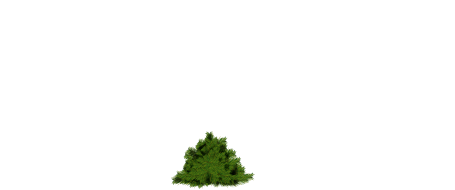
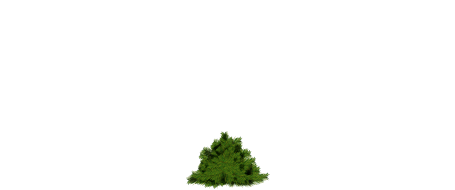
segment position
aligned segments and repositioned the ornaments

Changed region(s): [[0.3692, 0.6842, 0.6154, 1.0]]

diff --git a/css/styles.css b/css/styles.css
@@ -1,1 +1,1 @@
-html,body,div,span,applet,object,iframe,h1,h2,h3,h4,h5,h6,p,blockquote,pre,a,abbr,acronym,address,big,cite,code,del,dfn,em,img,ins,kbd,q,s,samp,small,strike,strong,sub,sup,tt,var,b,u,i,center,dl,dt,dd,ol,ul,li,fieldset,form,label,legend,table,caption,tbody,tfoot,thead,tr,th,td,article,aside,canvas,details,embed,figure,figcaption,footer,header,hgroup,menu,nav,output,ruby,section,summary,time,mark,audio,video{margin:0;padding:0;font-size:12px;font:inherit}article,aside,details,figcaption,figure,footer,header,hgroup,menu,nav,section{display:block}body{line-height:1}ol,ul{list-style:none}blockquote,q{quotes:none}blockquote:before,blockquote:after,q:before,q:after{content:'';content:none}table{border-collapse:collapse;border-spacing:0}:focus{outline:none}::-moz-focus-inner{border:0}*:focus{outline:0}*{margin:0;box-sizing:border-box}html,body{margin:0;padding:0;background-color:white;color:#666666;font-size:15px;font-family:Helvetica,Verdana,monospace;height:100%;min-height:100%}img{border-style:none;vertical-align:top}a{text-decoration:underline;color:#ccc;font-weight:bold;font-family:Helvetica,Verdana,monospace;font-size:1em}a:hover{text-decoration:none}h1{color:#fff;font-family:Arial,cursive,sans-serif;font-weight:normal;text-align:center;font-size:50px;line-height:1.2em;padding:10px 0px;margin:0px auto 0px}h2{color:#fff;font-family:Helvetica,Verdana,monospace;font-weight:normal;text-align:left;font-size:3.2em;line-height:1em;margin:0px 0px 20px;padding-top:30px}h3{color:#fff;font-family:Times,sans-serif;font-weight:normal;text-align:center;font-size:1.8em;line-height:1.2em;margin:0px 0px 15px 0px}h4{color:#fff;font-family:Helvetica,Verdana,monospace;font-weight:normal;text-align:center;font-size:31px;line-height:1.2em;margin:0px 0px 15px}h5{font-family:Arial,sans-serif;font-weight:bold;color:black;font-size:1.1em;line-height:1.4em}h6{font-family:Arial,sans-serif;font-weight:bold;color:black;font-size:1.6em;line-height:1.6em;margin:0;padding:0}p{color:#fff;font-size:1.1em;font-family:Helvetica,Verdana,monospace;text-align:left;line-height:1.3em;margin-top:8px;margin-bottom:20px}.main{background:rgba(0,255,0,0.2);color:white;font-weight:bold;position:absolute;top:0;width:100%}.float-containers{overflow:hidden;width:100%}.fl{float:left;width:60%}.fr{float:right;width:39%}.onethird{width:32%;float:left}.marginleft{margin-left:2%}.medium-col{float:left;width:49%}.footer{position:fixed;bottom:10px;right:10px;z-index:9;padding-top:200px}label{font-family:Helvetica,Verdana,monospace;color:#fff;font-size:1em;line-height:1.4em}ul{list-style:disc;color:white}ul li{color:white;font-family:Helvetica,Verdana,monospace;font-size:1.6em;line-height:1.6em;font-weight:100}hr{margin-top:5px;margin-bottom:8px;border:none;border-bottom:1px solid #d9d9d9}.input-wrap{border-radius:5px;-moz-border-radius:5px;-webkit-border-radius:5px;border:1px solid #000;border-bottom:3px solid #000;background:url("../images/btn_input.jpg") no-repeat;color:white;width:100%;max-width:400px;margin:0 auto 15px}select{background:none;text-align:left;font-size:2em;border:none;width:95%;color:white;margin:0px 10px 4px;-webkit-appearance:none;-moz-appearance:none;background:url("../images/select.png") no-repeat 95% 50% !important}.error{border-color:red}.buttonbg{width:100%;max-width:400px;margin:10px auto 10px;text-align:center}.button{display:block;width:100%;color:#fff;font-size:40px;line-height:42px;padding:5px 0px 5px;font-family:Arial,sans-serif;text-shadow:2px 2px 1px rgba(30,30,30,0.8);-webkit-border-radius:10px;-moz-border-radius:10px;border-radius:10px;background:url("../images/btn_bg.png") 0 0 no-repeat;-webkit-box-shadow:2px 2px 10px rgba(50,50,50,0.71);-moz-box-shadow:2px 2px 10px rgba(50,50,50,0.71);box-shadow:2px 2px 10px rgba(50,50,50,0.71);text-decoration:none}a.button:hover{color:black}.container{position:relative;width:100%;margin:0 auto;height:100%;min-height:100%;text-align:center;background-size:cover;overflow-x:hidden}::-webkit-input-placeholder{color:white}:-moz-placeholder{color:white;opacity:1}::-moz-placeholder{color:white;opacity:1}:-ms-input-placeholder{color:white}@media only screen and (min-width: 320px){.container{width:100%;overflow:hidden;height:100%;max-width:960px}.header img{width:100%}.header{position:absolute}#tree{width:100%;transition:.35s;max-width:auto;position:absolute;bottom:0}#tree .segment>img{width:100%;height:190px}#tree .ornament>img{margin:0 15px}}@media only screen and (min-width: 480px){#tree{margin:0 auto;width:auto;max-width:960px;transition:.35s}#tree .segment>img{width:auto}}@media only screen and (min-width: 768px){.header img{width:100%;max-width:960px}#tree{width:100%}#tree .segment>img{width:auto}}
+html,body,div,span,applet,object,iframe,h1,h2,h3,h4,h5,h6,p,blockquote,pre,a,abbr,acronym,address,big,cite,code,del,dfn,em,img,ins,kbd,q,s,samp,small,strike,strong,sub,sup,tt,var,b,u,i,center,dl,dt,dd,ol,ul,li,fieldset,form,label,legend,table,caption,tbody,tfoot,thead,tr,th,td,article,aside,canvas,details,embed,figure,figcaption,footer,header,hgroup,menu,nav,output,ruby,section,summary,time,mark,audio,video{margin:0;padding:0;font-size:12px;font:inherit}article,aside,details,figcaption,figure,footer,header,hgroup,menu,nav,section{display:block}body{line-height:1}ol,ul{list-style:none}blockquote,q{quotes:none}blockquote:before,blockquote:after,q:before,q:after{content:'';content:none}table{border-collapse:collapse;border-spacing:0}:focus{outline:none}::-moz-focus-inner{border:0}*:focus{outline:0}*{margin:0;box-sizing:border-box}html,body{margin:0;padding:0;background-color:white;color:#666666;font-size:15px;font-family:Helvetica,Verdana,monospace;height:100%;min-height:100%}img{border-style:none;vertical-align:top}a{text-decoration:underline;color:#ccc;font-weight:bold;font-family:Helvetica,Verdana,monospace;font-size:1em}a:hover{text-decoration:none}h1{color:#fff;font-family:Arial,cursive,sans-serif;font-weight:normal;text-align:center;font-size:50px;line-height:1.2em;padding:10px 0px;margin:0px auto 0px}h2{color:#fff;font-family:Helvetica,Verdana,monospace;font-weight:normal;text-align:left;font-size:3.2em;line-height:1em;margin:0px 0px 20px;padding-top:30px}h3{color:#fff;font-family:Times,sans-serif;font-weight:normal;text-align:center;font-size:1.8em;line-height:1.2em;margin:0px 0px 15px 0px}h4{color:#fff;font-family:Helvetica,Verdana,monospace;font-weight:normal;text-align:center;font-size:31px;line-height:1.2em;margin:0px 0px 15px}h5{font-family:Arial,sans-serif;font-weight:bold;color:black;font-size:1.1em;line-height:1.4em}h6{font-family:Arial,sans-serif;font-weight:bold;color:black;font-size:1.6em;line-height:1.6em;margin:0;padding:0}p{color:#fff;font-size:1.1em;font-family:Helvetica,Verdana,monospace;text-align:left;line-height:1.3em;margin-top:8px;margin-bottom:20px}.main{background:rgba(0,255,0,0.2);color:white;font-weight:bold;position:absolute;top:0;width:100%}.float-containers{overflow:hidden;width:100%}.fl{float:left;width:60%}.fr{float:right;width:39%}.onethird{width:32%;float:left}.marginleft{margin-left:2%}.medium-col{float:left;width:49%}.footer{position:fixed;bottom:10px;right:10px;z-index:9;padding-top:200px}label{font-family:Helvetica,Verdana,monospace;color:#fff;font-size:1em;line-height:1.4em}ul{list-style:disc;color:white}ul li{color:white;font-family:Helvetica,Verdana,monospace;font-size:1.6em;line-height:1.6em;font-weight:100}hr{margin-top:5px;margin-bottom:8px;border:none;border-bottom:1px solid #d9d9d9}.input-wrap{border-radius:5px;-moz-border-radius:5px;-webkit-border-radius:5px;border:1px solid #000;border-bottom:3px solid #000;background:url("../images/btn_input.jpg") no-repeat;color:white;width:100%;max-width:400px;margin:0 auto 15px}select{background:none;text-align:left;font-size:2em;border:none;width:95%;color:white;margin:0px 10px 4px;-webkit-appearance:none;-moz-appearance:none;background:url("../images/select.png") no-repeat 95% 50% !important}.error{border-color:red}.buttonbg{width:100%;max-width:400px;margin:10px auto 10px;text-align:center}.button{display:block;width:100%;color:#fff;font-size:40px;line-height:42px;padding:5px 0px 5px;font-family:Arial,sans-serif;text-shadow:2px 2px 1px rgba(30,30,30,0.8);-webkit-border-radius:10px;-moz-border-radius:10px;border-radius:10px;background:url("../images/btn_bg.png") 0 0 no-repeat;-webkit-box-shadow:2px 2px 10px rgba(50,50,50,0.71);-moz-box-shadow:2px 2px 10px rgba(50,50,50,0.71);box-shadow:2px 2px 10px rgba(50,50,50,0.71);text-decoration:none}a.button:hover{color:black}.container{position:relative;width:100%;margin:0 auto;height:100%;min-height:100%;text-align:center;background-size:cover;overflow-x:hidden}::-webkit-input-placeholder{color:white}:-moz-placeholder{color:white;opacity:1}::-moz-placeholder{color:white;opacity:1}:-ms-input-placeholder{color:white}@media only screen and (min-width: 320px){.container{width:100%;overflow:hidden;height:100%;max-width:960px}.header img{width:100%}.header{position:absolute}#tree{transition:.35s;position:absolute;bottom:0}#tree .segment>img{width:100%;height:190px}#tree .ornament>img{margin:0 15px}}@media only screen and (min-width: 480px){#tree{margin:0 auto;max-width:960px;transition:.35s}#tree .segment>img{width:auto}}@media only screen and (min-width: 768px){.header img{width:100%;max-width:960px}#tree{width:100%}#tree .segment>img{width:auto}}

diff --git a/sass/styles.scss b/sass/styles.scss
@@ -460,9 +460,9 @@ a.button:hover {
         position: absolute;
     }
     #tree {
-        width: 100%;
+
         transition: .35s;
-        max-width: auto;
+
         position: absolute;
         bottom: 0;
     }
@@ -481,7 +481,7 @@ margin: 0 15px;
 @media only screen and (min-width: 480px) {
     #tree {
         margin: 0 auto;
-        width: auto;
+
         max-width: 960px;
         transition: .35s;
     }

diff --git a/js/tree.js b/js/tree.js
@@ -143,7 +143,7 @@ HCSegment.prototype = {
 					'position' : 'absolute',
 					'width' : '100%',
 					'text-align' : 'center',
-					'bottom' : '2%'
+					'bottom' : '5%'
 				});
 			//Create decorations per branch - ie segment 1 = 1 ornament, segment 5 = 5 ornaments
 			for (var inner = i; inner < (i+i); inner++) {
